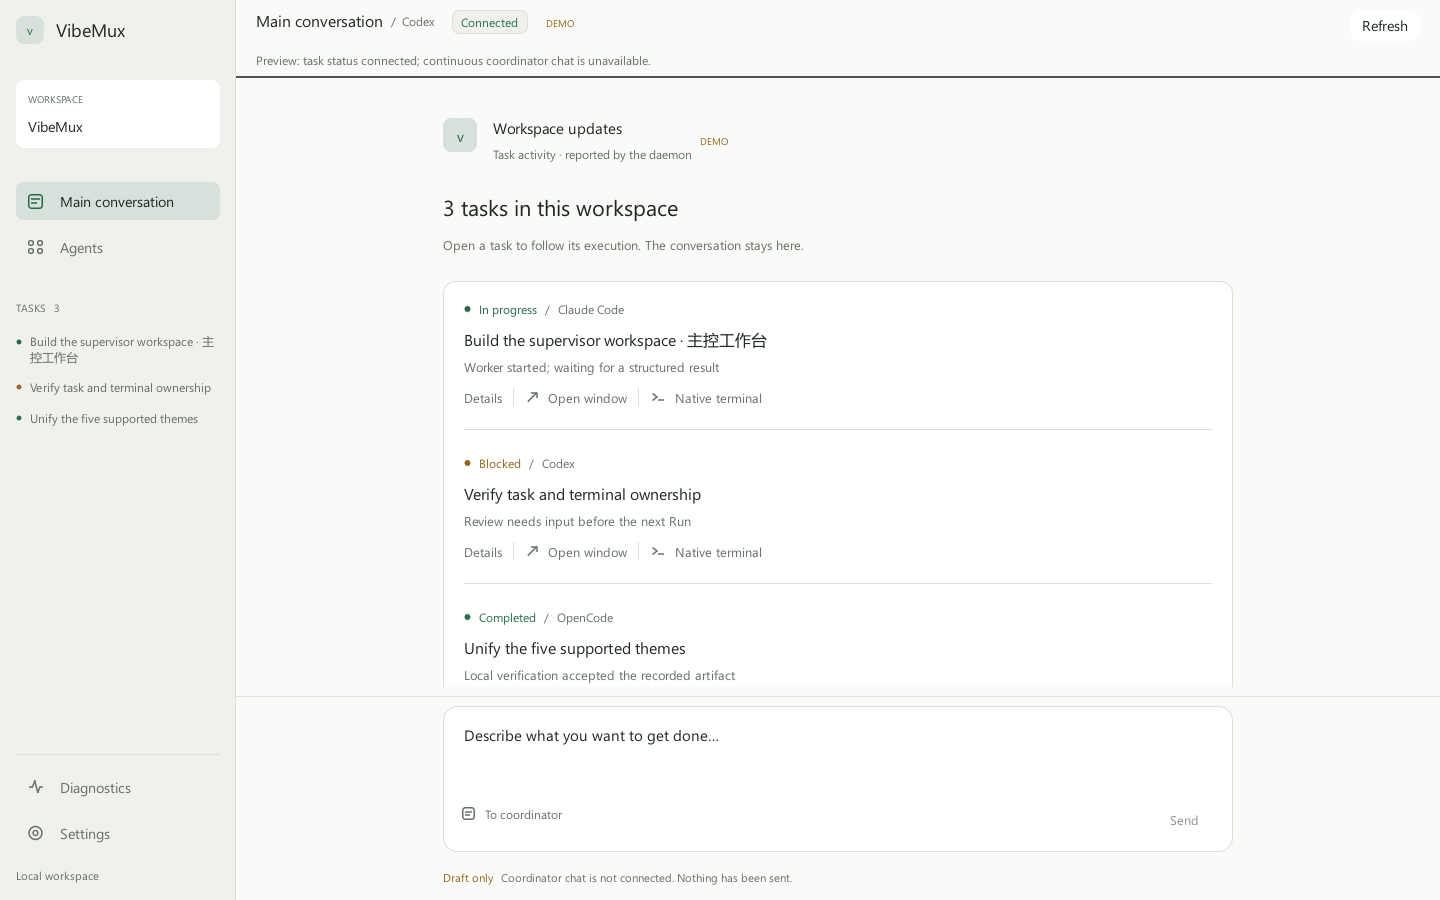
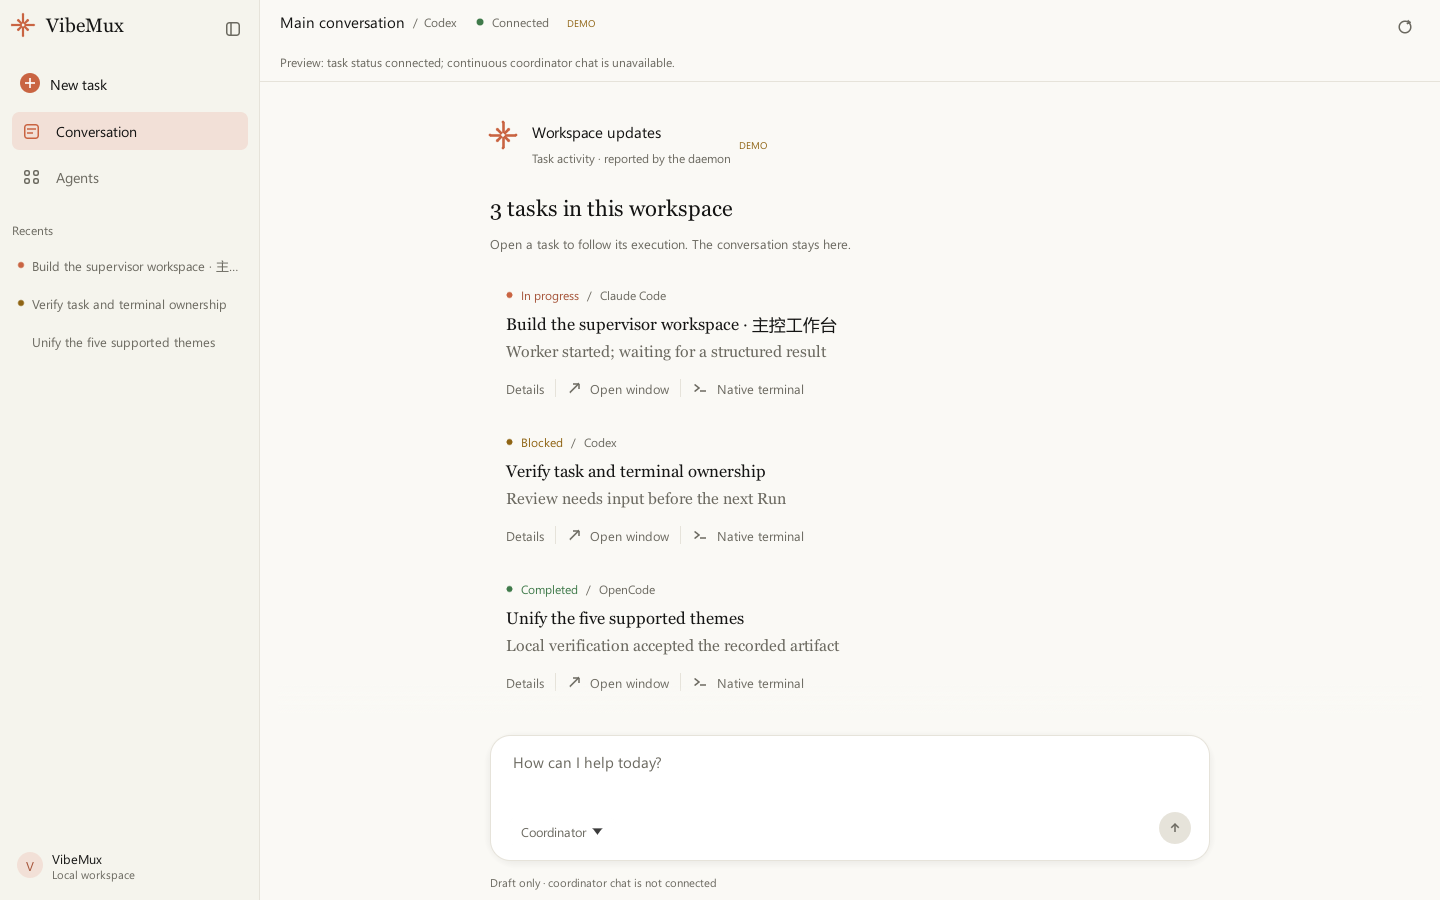
docs(frontend): ADR 030 phase 1 previews, README, changelog, and progress

diff --git a/crates/vibemux_frontend/src/bin/vibemux_frontend_preview.rs b/crates/vibemux_frontend/src/bin/vibemux_frontend_preview.rs
@@ -62,6 +62,11 @@ fn main() -> eframe::Result<()> {
                 )));
             let mut app = gui::VibeMuxApp::new(cc, preview::probe_view(), config);
             app.set_supervisor_snapshot(snapshot);
+            match scenario {
+                "welcome" => app.request_new_task(),
+                "collapsed" => app.set_sidebar_collapsed(true),
+                _ => {}
+            }
             if drawer {
                 app.select_task("task_ui");
             }

diff --git a/README.md b/README.md
@@ -192,11 +192,15 @@ The frontend crate builds three binaries:
 - `vibemux_frontend_tui` — the interactive Ratatui debug dashboard over the probe report. Flags: `--json`, `--theme <name>`. Keys: `t` cycles themes, `c` captures a snapshot, `q` / `Esc` exit.
 - `vibemux_frontend_dump` — one-shot plain-ASCII snapshot of the same dashboard (supersedes the removed `--once` flag).
 
-The redesigned GUI defaults to **Studio**: an off-white canvas, quiet sidebar,
-dark-green accent, native Windows typography, and a continuous task activity
-list. Six themes are available in **Settings → Appearance**: `studio`, `github`,
-`claude`, `vscode`, `nord`, and `gruvbox`. Existing saved appearance preferences
-are preserved; select Studio in Settings to adopt the new light style.
+The GUI defaults to **Claude light**: a cream canvas, terracotta accent, serif
+display type from the system's Georgia or Cambria, and a Claude Desktop style
+sidebar with **New task**, Conversation, Agents, a Recents list, and a
+workspace menu. The sidebar collapses to an icon rail. Seven themes are
+available in **Settings → Appearance**: `claude_light`, `claude` (warm
+charcoal), `studio`, `github`, `vscode`, `nord`, and `gruvbox`. Existing saved
+appearance preferences are preserved. Sending from the composer is not
+available yet: Enter keeps the draft and says it was not sent, and Shift+Enter
+inserts a newline.
 
 Task windows have Overview, Activity, Artifacts and Terminal tabs. Closing a
 window does not stop its task. `Ctrl+1..0` accesses the ten harness diagnostics;
@@ -216,9 +220,10 @@ coding-agent chat service.
 The screenshot-only `vibemux_frontend_preview` binary is built with
 `--features gui_screenshot`; its scenes are visibly marked **DEMO DATA** and
 never contact a daemon or model. Example:
-`cargo run -p vibemux_frontend --features gui_screenshot --bin vibemux_frontend_preview -- chat studio 1440 900 1`.
+`cargo run -p vibemux_frontend --features gui_screenshot --bin vibemux_frontend_preview -- chat claude_light 1440 900 1`.
 Add an absolute PNG path as the last argument to capture a settled native frame.
-Scenes are `chat`, `drawer`, `task`, `task_terminal`, and `disconnected`.
+Scenes are `chat`, `drawer`, `task`, `task_terminal`, `disconnected`, `welcome`,
+and `collapsed`.
 The `task` scenes capture the actual independent native viewport.
 
 The TUI ships six themes: `classic` (8-color default for dark terminals), `high-contrast` (bright variants for dark terminals and low-vision users), `mono` (no foreground colors at all; emphasis via bold/dim only, safe for colorless terminals, color-blind users, and any background), `light` (dark variants tuned for white or very light terminal backgrounds), and the brand themes `nord` and `gruvbox` (xterm-256 indices resolved from the brand palettes, so they render the same hues on WezTerm and tmux without a truecolor dependency). Select with `--theme <name>` or `VIBEMUX_FRONTEND_THEME`; the footer always shows the active theme, and pressing `t` in the interactive dashboard cycles themes in place. Every accent color is covered by a WCAG AA (4.5:1) contrast audit against its background, and all state information is carried by full-word text labels so color is never the only channel.

diff --git a/CHANGELOG.md b/CHANGELOG.md
@@ -2,6 +2,7 @@
 
 ## Unreleased
 
+- Claude-style GUI, phase 1 (ADR 030): new `claude_light` theme (default for new profiles) and a warm charcoal `claude` theme, serif display type from system fonts, readable accent text in every theme, a collapsible Claude Desktop style sidebar with New task, Recents, and a workspace menu, a welcome state with a time-of-day greeting, a rounded composer with a target chip where Enter keeps the draft and reports "Not sent" while chat is unavailable, borderless task rows with a scroll fade, and a task drawer that is always docked with one header and aligned details. The exported palette file and the Python fallback copy follow the palette change. Four uncompiled ADR 027 shell files are deleted. The frontend enables `time`'s `local-offset` feature, which adds the `num_threads` crate on Unix.
 - Add daemon-owned harness request dispatch and output capture (ADR 029, pre-alpha, opt-in through `.vibemux/harness_dispatch.json`). Pure `vibemux_harness::dispatch` logic drives Codex `exec --json`/`app-server` and Claude stream-json one-shot turns, with ACP initialize-only probes for OpenCode, Copilot, and Grok. Store schema 4 adds the versioned `harness_dispatches` record with idempotent admission, one active reservation per project, a fenced claim and finish, and startup recovery with per-attempt quarantine. `vibemux_platform::ProcessTree` contains each vendor process tree (a kill-on-close Job Object in a second reviewed `unsafe` module on Windows, a process group on POSIX), and the new `vibemux_launch_trampoline` binary starts the vendor only after containment. Control IPC v5 adds six `harness_dispatch_*` operations with paged, byte-exact output, and `vibemuxctl dispatch` is the client. Read-only protocol profiles are not an OS sandbox, transcripts stay in daemon memory, and live vendor validation so far covers initialize-only probes on native Windows ([evidence](docs/evidence/harness_dispatch_validation.md)). **Upgrade note:** schema 4 is forward-only and a pre-v5 `vibemuxctl` refuses a v5 daemon, so upgrade both binaries together and install `vibemux_launch_trampoline` next to `vibemuxd`.
 - Fix non-editable Python installs: wheels now force-include `config/theme_palettes.json` as `vibemux/theme_palettes.json`, and `src/vibemux/theme.py` reads the packaged copy before the checkout copy, so `VIBEMUX_THEME` and `vibemux theme` work outside a source checkout. The WezTerm observer now matches pane directories by file identity (`same-file`, the same check the daemon applies) instead of comparing canonical paths as text.
 - Replace the dashboard home with the native Supervisor Chat workspace (ADR 028): Studio appearance, flat project/task navigation, grouped task activity, persistent drafts, and docked or independent task views. Existing dark palettes and theme preferences remain compatible. Continuous chat remains explicitly unavailable; fixture transcripts are absent from the normal runtime.

diff --git a/PROGRESS.md b/PROGRESS.md
@@ -2641,3 +2641,24 @@ Publication authorization does not resolve the documented Linux/WSL, full ITK, r
 **Remaining**
 - Windows CI evidence for this change comes from its pull request run.
 - ADR 029 open decision 4 and a live `dispatch submit`, unchanged from the 2026-09-28 (1) entry.
+
+### 2026-09-28 (3) - Claude-style GUI phase 1 (ADR 030, `feat/claude_style_gui`)
+
+**Status change**
+- M5.0 frontend stays `PARTIAL`. ADR 030 phase 1 is implemented; phase 2 (shortcuts, quick switcher, appearance modes, motion, copy buttons) is not.
+
+**Implemented**
+- `claude_light` palette as the default for new profiles and a retuned warm charcoal `claude` palette; `config/theme_palettes.json` and the Python fallback updated under the parity test; ADR 026's surface invariant amended to a 5.0 luma gap in either direction.
+- WCAG contrast math, luminance-based light detection, and readable accent text in every palette.
+- Serif display family from Georgia or Cambria, with sans, serif, and CJK faces loaded independently (a missing CJK font no longer skips Segoe UI).
+- Collapsible sidebar with New task, Recents, and a workspace menu; welcome state with a local-time greeting; rounded composer with a target chip, a muted placeholder, and Enter/Shift+Enter handling that never sends; borderless serif task rows with a scroll fade; a quiet top bar; an always-docked task drawer with one header and an aligned details grid; deletion of four uncompiled shell files.
+- The frontend enables `time`'s `local-offset` feature for the greeting, which adds `num_threads` 0.1.7 (MIT or Apache-2.0, used on Unix only) to `Cargo.lock`.
+
+**Evidence**
+- commands (native Windows): `cargo fmt --all -- --check` clean; `cargo clippy --workspace --all-targets --all-features -- -D warnings` clean; `cargo test --workspace --all-features --no-fail-fast`: 526 passed, 2 failed, 2 ignored. The two failures are `vibemux_cli` `recovery::tests::live_daemon_is_never_recoverable` and `descriptor_only_recovery_and_pid_mismatch_fail_closed` (`ControlRuntimeSecurityInvalid`); both fail the same way on `main` at `21447ac` on this machine and pass when run alone, so they are pre-existing environment failures outside this change. Python: pytest 64 passed; ruff check and ruff format clean; mypy reports 20 errors in `tools/a2a_python_interop.py`, `tools/a2a_tck_auth.py`, and `tests/test_harness.py`, the same 20 as on `main`.
+- Screenshots: `claude_light` and `claude` at 1280x800, 960x600, and 1.5x scale for the chat, drawer, welcome, and collapsed scenes were reviewed; the committed previews in `docs/frontend_previews/` were regenerated with `claude_light` at 1440x900.
+
+**Remaining**
+- ADR 030 phase 2.
+- At the 960x600 minimum with the drawer open, the conversation column is narrow and its header badge is clipped.
+- No live check yet on a real display at scales other than 1.0 and 1.5, with other system fonts, or with IME input on a real keyboard.

diff --git a/docs/architecture.md b/docs/architecture.md
@@ -216,7 +216,7 @@ Live vendor CLIs have been exercised only through initialize-only probes on nati
 
 `vibemux_probe` only produces versioned, content-free, read-only diagnostics: launcher/version, explicit provider endpoint, CC Switch health/aggregate telemetry, and the A2A self-test. Launcher verification is not the same as authentication/inference verification.
 
-`vibemux_frontend` consumes probe reports and authenticated Control v4 snapshots; it never opens the core SQLite database. Its native Supervisor Chat workspace (ADR 028) has one main conversation, real task activity, secondary Agents/Settings/Diagnostics, and docked or independent task windows. The Studio light theme is the default for new profiles; five existing dark themes remain compatible. Task queries run through the daemon writer channel and return bounded metadata, not prompt bodies. A separately configured WezTerm observation plugin may list matching native panes and focus an explicitly linked pane after identity validation. Native TUI content stays in WezTerm. There is no continuous coordinator chat adapter, harness launch/input forwarding, embedded terminal renderer, or terminal-text completion inference. Ratatui remains the diagnostic surface, with existing classic/high-contrast/mono/light/nord/gruvbox themes. Shared palette export and terminal theme generation remain governed by ADR 026.
+`vibemux_frontend` consumes probe reports and authenticated Control v4 snapshots; it never opens the core SQLite database. Its native Supervisor Chat workspace (ADR 028) has one main conversation, real task activity, secondary Agents/Settings/Diagnostics, and docked or independent task windows. The Claude light theme is the default for new profiles (ADR 030); Studio and the five dark themes remain available. Task queries run through the daemon writer channel and return bounded metadata, not prompt bodies. A separately configured WezTerm observation plugin may list matching native panes and focus an explicitly linked pane after identity validation. Native TUI content stays in WezTerm. There is no continuous coordinator chat adapter, harness launch/input forwarding, embedded terminal renderer, or terminal-text completion inference. Ratatui remains the diagnostic surface, with existing classic/high-contrast/mono/light/nord/gruvbox themes. Shared palette export and terminal theme generation remain governed by ADR 026.
 
 ## Stateful local A2A and supervisor
 

diff --git a/docs/plans/030_claude_style_gui_plan.md b/docs/plans/030_claude_style_gui_plan.md
@@ -769,20 +769,20 @@ Expected: FAIL in `test_fallback_palette_matches_the_exported_default`.
 In `src/vibemux/theme.py` `_fallback_palette`, replace the color arguments with:
 
 ```python
-        bg="#262624",
-        surface="#1F1E1D",
-        surface_alt="#30302E",
-        border="#3A3935",
-        text_primary="#F5F4EE",
-        text_muted="#A8A59B",
-        accent="#D97757",
-        accent_alt="#E7C6B4",
-        success="#8AB487",
-        warning="#D9A85F",
-        danger="#E07A6F",
-        terminal_bg="#1A1918",
-        terminal_fg="#EDEBE4",
-        terminal_cursor="#D97757",
+bg = ("#262624",)
+surface = ("#1F1E1D",)
+surface_alt = ("#30302E",)
+border = ("#3A3935",)
+text_primary = ("#F5F4EE",)
+text_muted = ("#A8A59B",)
+accent = ("#D97757",)
+accent_alt = ("#E7C6B4",)
+success = ("#8AB487",)
+warning = ("#D9A85F",)
+danger = ("#E07A6F",)
+terminal_bg = ("#1A1918",)
+terminal_fg = ("#EDEBE4",)
+terminal_cursor = ("#D97757",)
 ```
 
 Run: `PYTHONPATH="$PWD/src" ../../../.venv/Scripts/python.exe -m pytest tests/test_theme.py -q`

diff --git a/docs/adr/030_claude_style_gui.md b/docs/adr/030_claude_style_gui.md
@@ -1,8 +1,9 @@
 # ADR 030: Claude-style GUI with a light and dark Claude theme pair
 
-Status: Proposed. This ADR is the approved design specification; none of it is
-implemented yet. It becomes Accepted when phase 1 merges, and PROGRESS.md
-records the status of each phase.
+Status: Accepted. Phase 1 (palettes, typography, sidebar, welcome state,
+composer, conversation rows, and the docked drawer) is implemented. Phase 2
+(shortcuts, quick switcher, appearance modes, motion, and copy buttons) is not
+implemented yet. PROGRESS.md records the status of each phase.
 
 Amends ADR 028: the default theme for new profiles becomes `claude_light`
 instead of `studio`, and the task drawer, composer, and sidebar change
